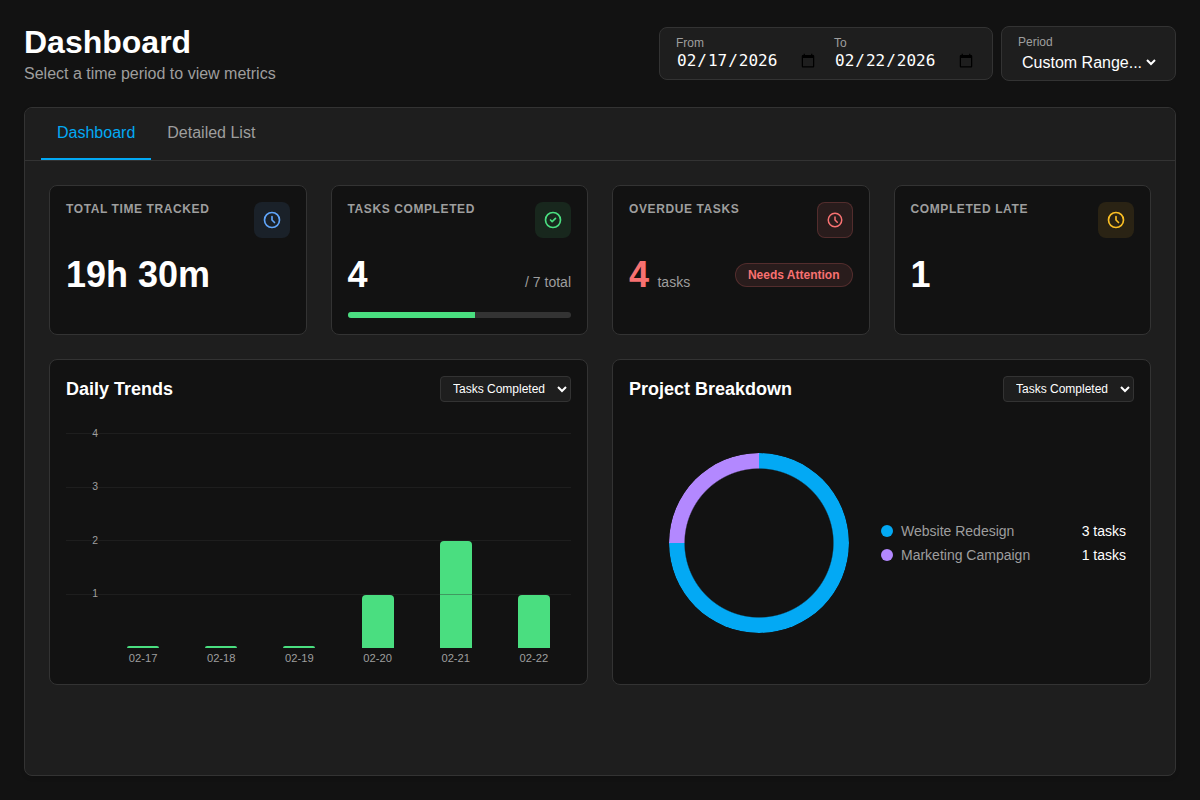
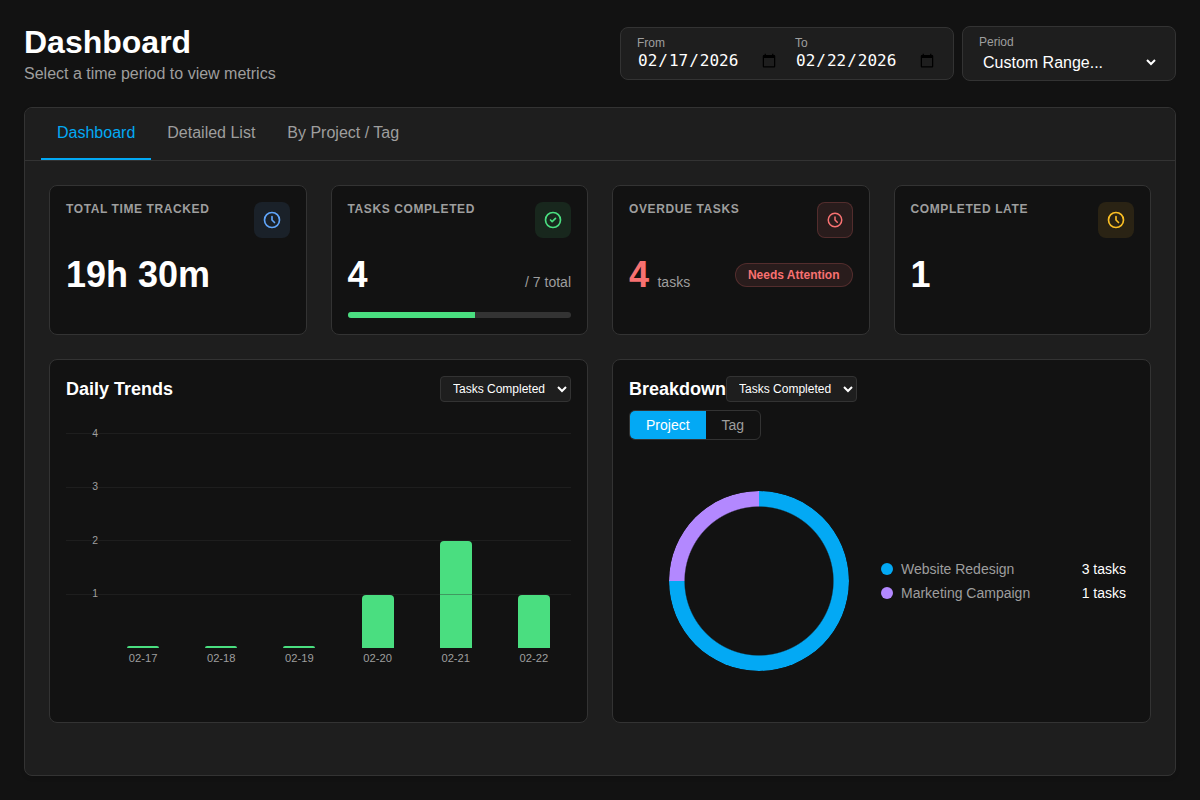
docs: add drilldown screenshot and update README for v1.4.0

diff --git a/scripts/screenshot.js b/scripts/screenshot.js
@@ -43,5 +43,23 @@ import fs from 'fs';
   await page.screenshot({ path: listPath, fullPage: true });
   console.log('Detailed list screenshot saved to', listPath);
 
+  // switch to drilldown tab, expand layout to show full content, then capture
+  await page.evaluate(() => window.switchTab && window.switchTab('drilldown'));
+  await new Promise(resolve => setTimeout(resolve, 500));
+  await page.evaluate(() => {
+    document.body.style.height = 'auto';
+    document.body.style.overflow = 'visible';
+    const container = document.querySelector('.container');
+    if (container) { container.style.height = 'auto'; container.style.overflow = 'visible'; }
+    const mainCard = document.querySelector('.main-card');
+    if (mainCard) { mainCard.style.overflow = 'visible'; }
+    const viewContent = document.getElementById('view-drilldown');
+    if (viewContent) { viewContent.style.overflow = 'visible'; viewContent.style.height = 'auto'; }
+  });
+  await new Promise(resolve => setTimeout(resolve, 300));
+  const drillPath = path.join(outDir, 'drilldown.png');
+  await page.screenshot({ path: drillPath, fullPage: true });
+  console.log('Drilldown screenshot saved to', drillPath);
+
   await browser.close();
 })();

diff --git a/README.md b/README.md
@@ -6,10 +6,11 @@ A lightweight dashboard plugin for [Super Productivity](https://super-productivi
 
 ## 🚀 Features
 
-- Selectable date ranges: past week, month, year or custom range
-- Two views:
+- Selectable date ranges: past week, current month, year or custom range
+- Three views:
   - **Dashboard** with key metrics, bar charts and pie charts
   - **Detailed list** of individual time entries and task status
+  - **By Project / Tag** drill-down with per-entity stats, daily trend chart, and filtered task list
 
 ## 🖼️ Preview
 
@@ -20,6 +21,9 @@ Below are screenshots of the plugin rendered outside of the host app (mock data 
 
 ![Detailed List View](assets/detailed_list.png)
 *Detailed list of individual time entries and task statuses.*
+
+![By Project / Tag View](assets/drilldown.png)
+*Drill-down view showing stats, daily trend, and tasks for a selected project or tag.*
 
 *(Images are regenerated via the screenshot utility when the UI changes.)*
 